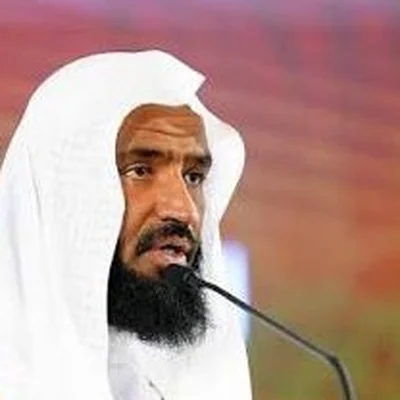
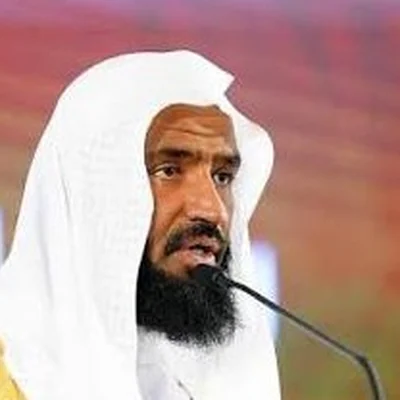
Bring Al-Buayjan's face to the middle of the ring
It sat left of centre. The crop was centred a little right of where he
actually stands, so lowering cx moves the window left and him right.

diff --git a/scripts/crop-imam-photos.py b/scripts/crop-imam-photos.py
@@ -86,8 +86,10 @@ FRAMING = {
     # centre crop would take the top of his head off and give back a shoulder.
     "abdulaziz-turki": dict(zoom=148, cx=46, cy=36),
     # A wide shot at a lectern: he is right of centre and high, and the middle
-    # square is mostly podium and backdrop.
-    "buayjan": dict(zoom=145, cx=61, cy=36),
+    # square is mostly podium and backdrop. Centring the crop on him rather
+    # than on the picture is what brings his face to the middle of the ring —
+    # a lower cx moves the window left, which moves him right in frame.
+    "buayjan": dict(zoom=145, cx=57, cy=36),
 }
 
 # Reciters the catalog names directly, and the file it asks for. These are the
